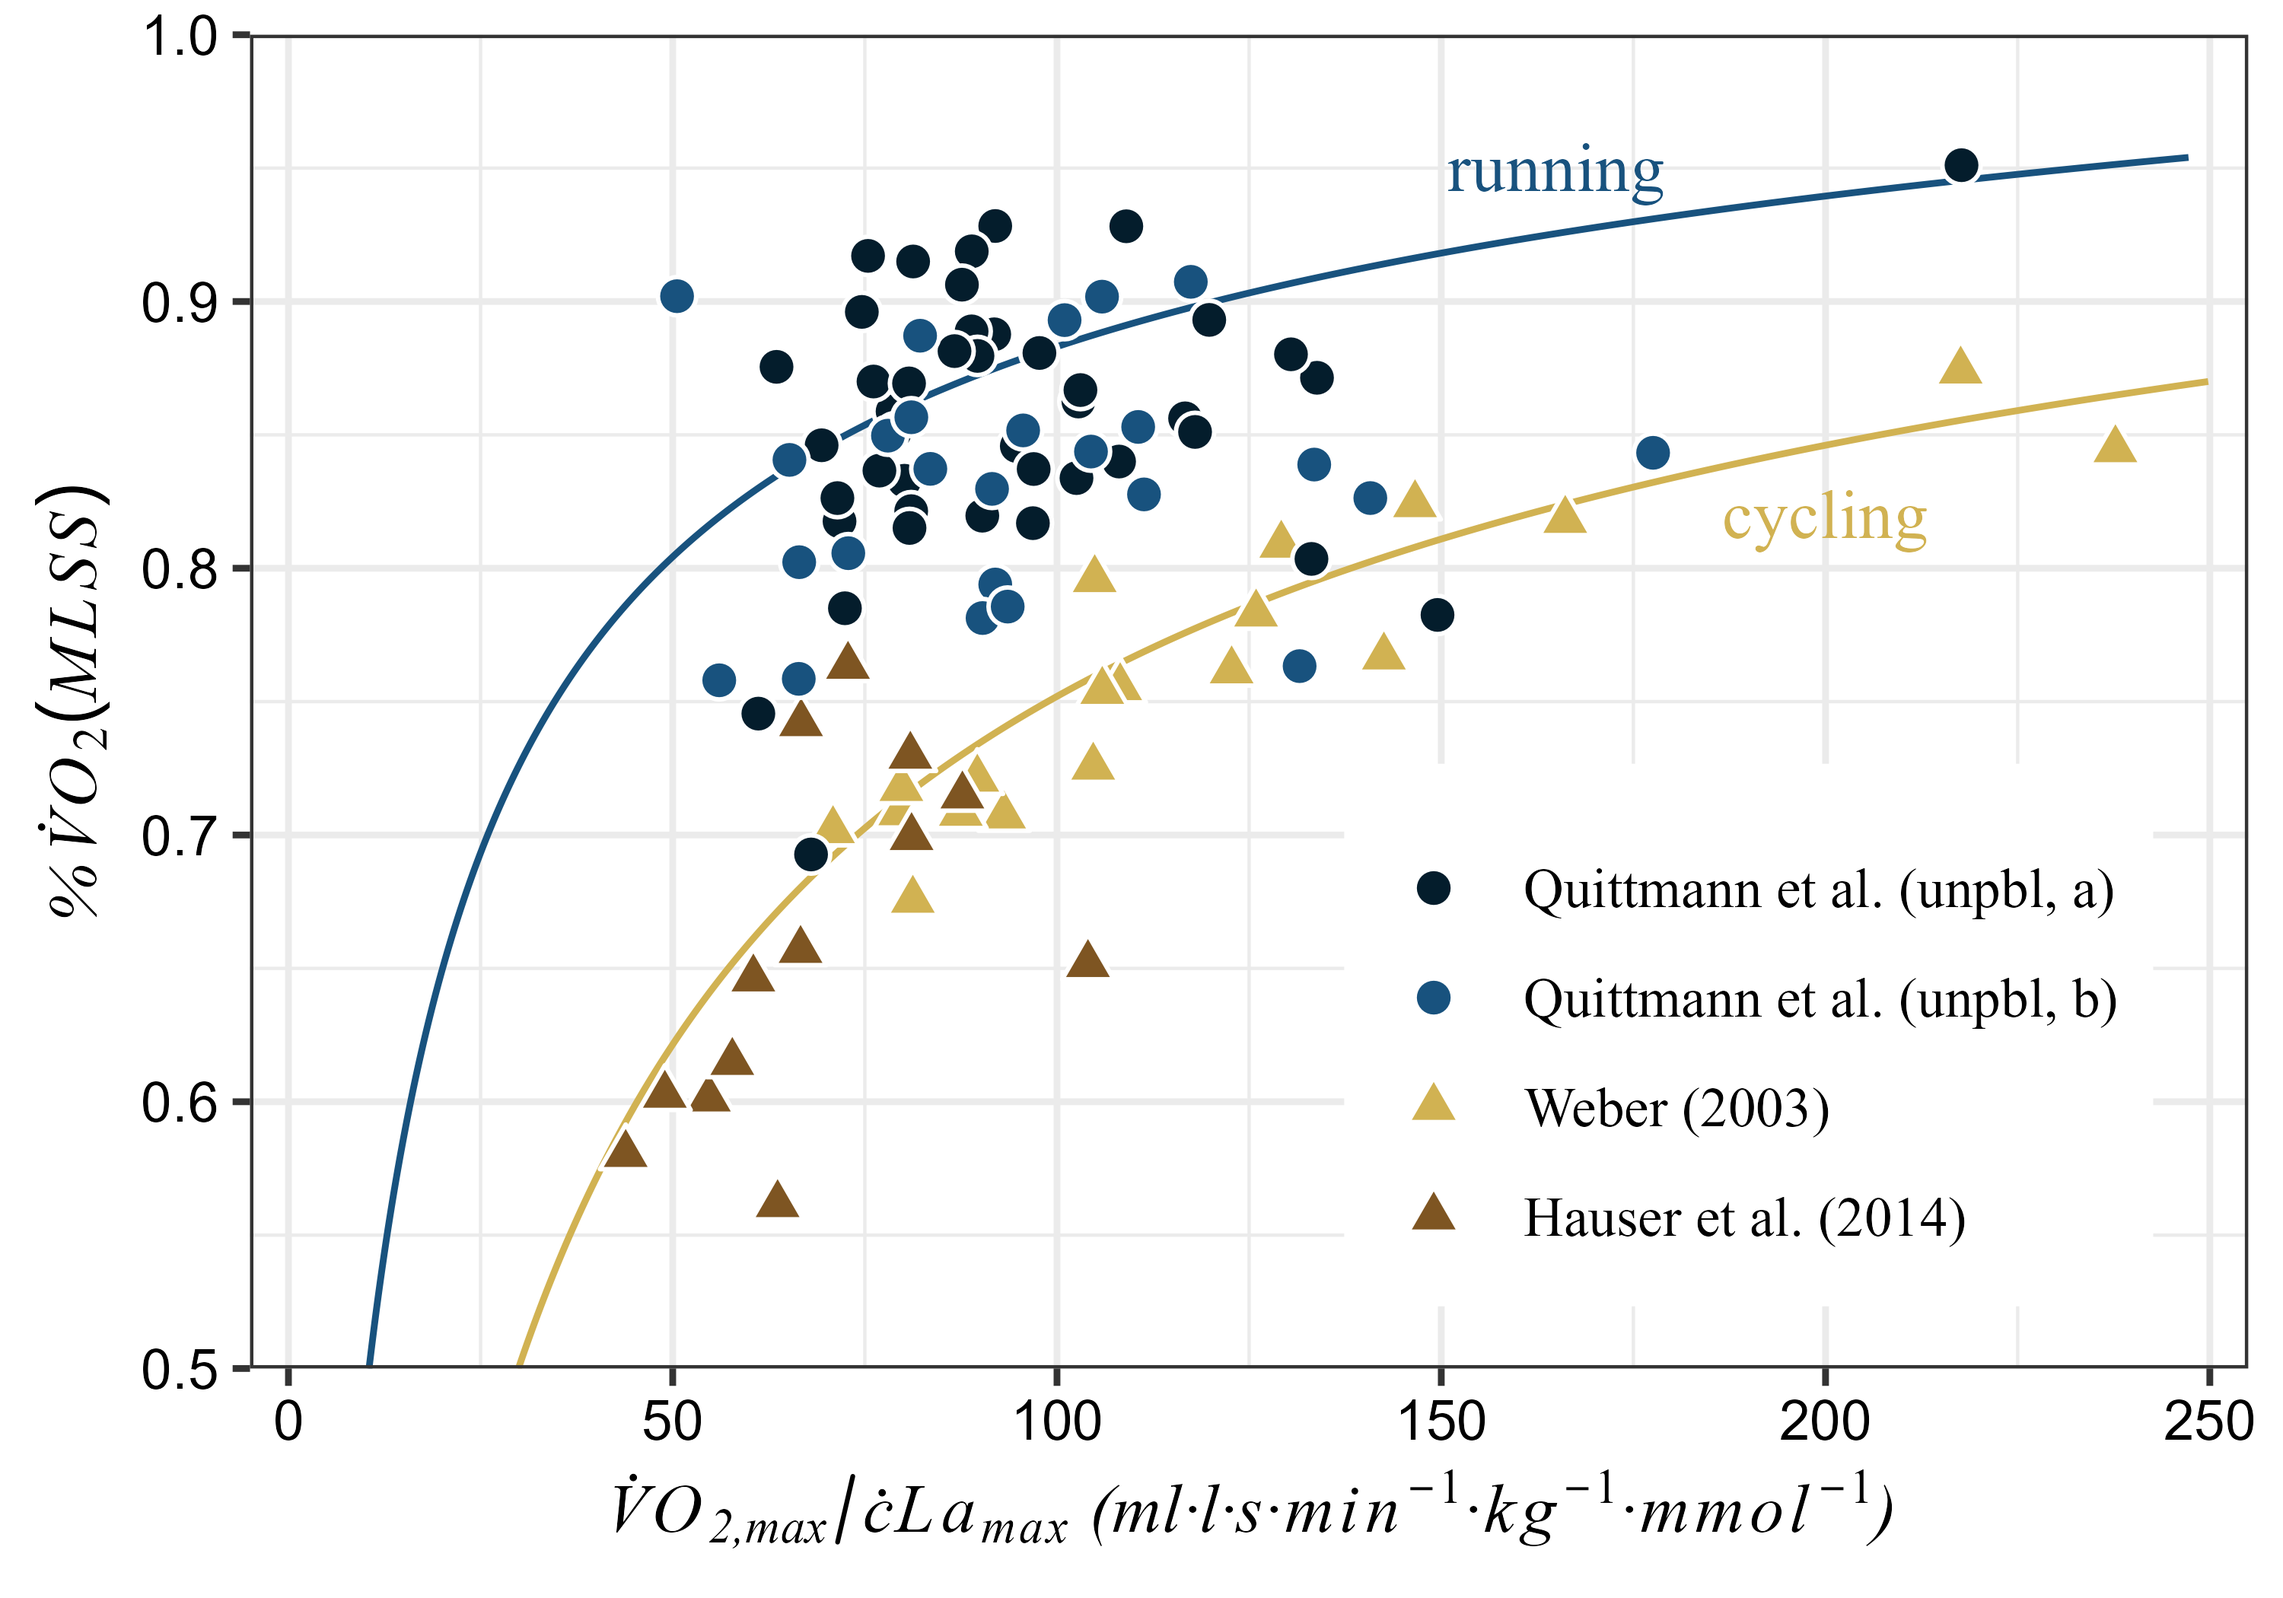
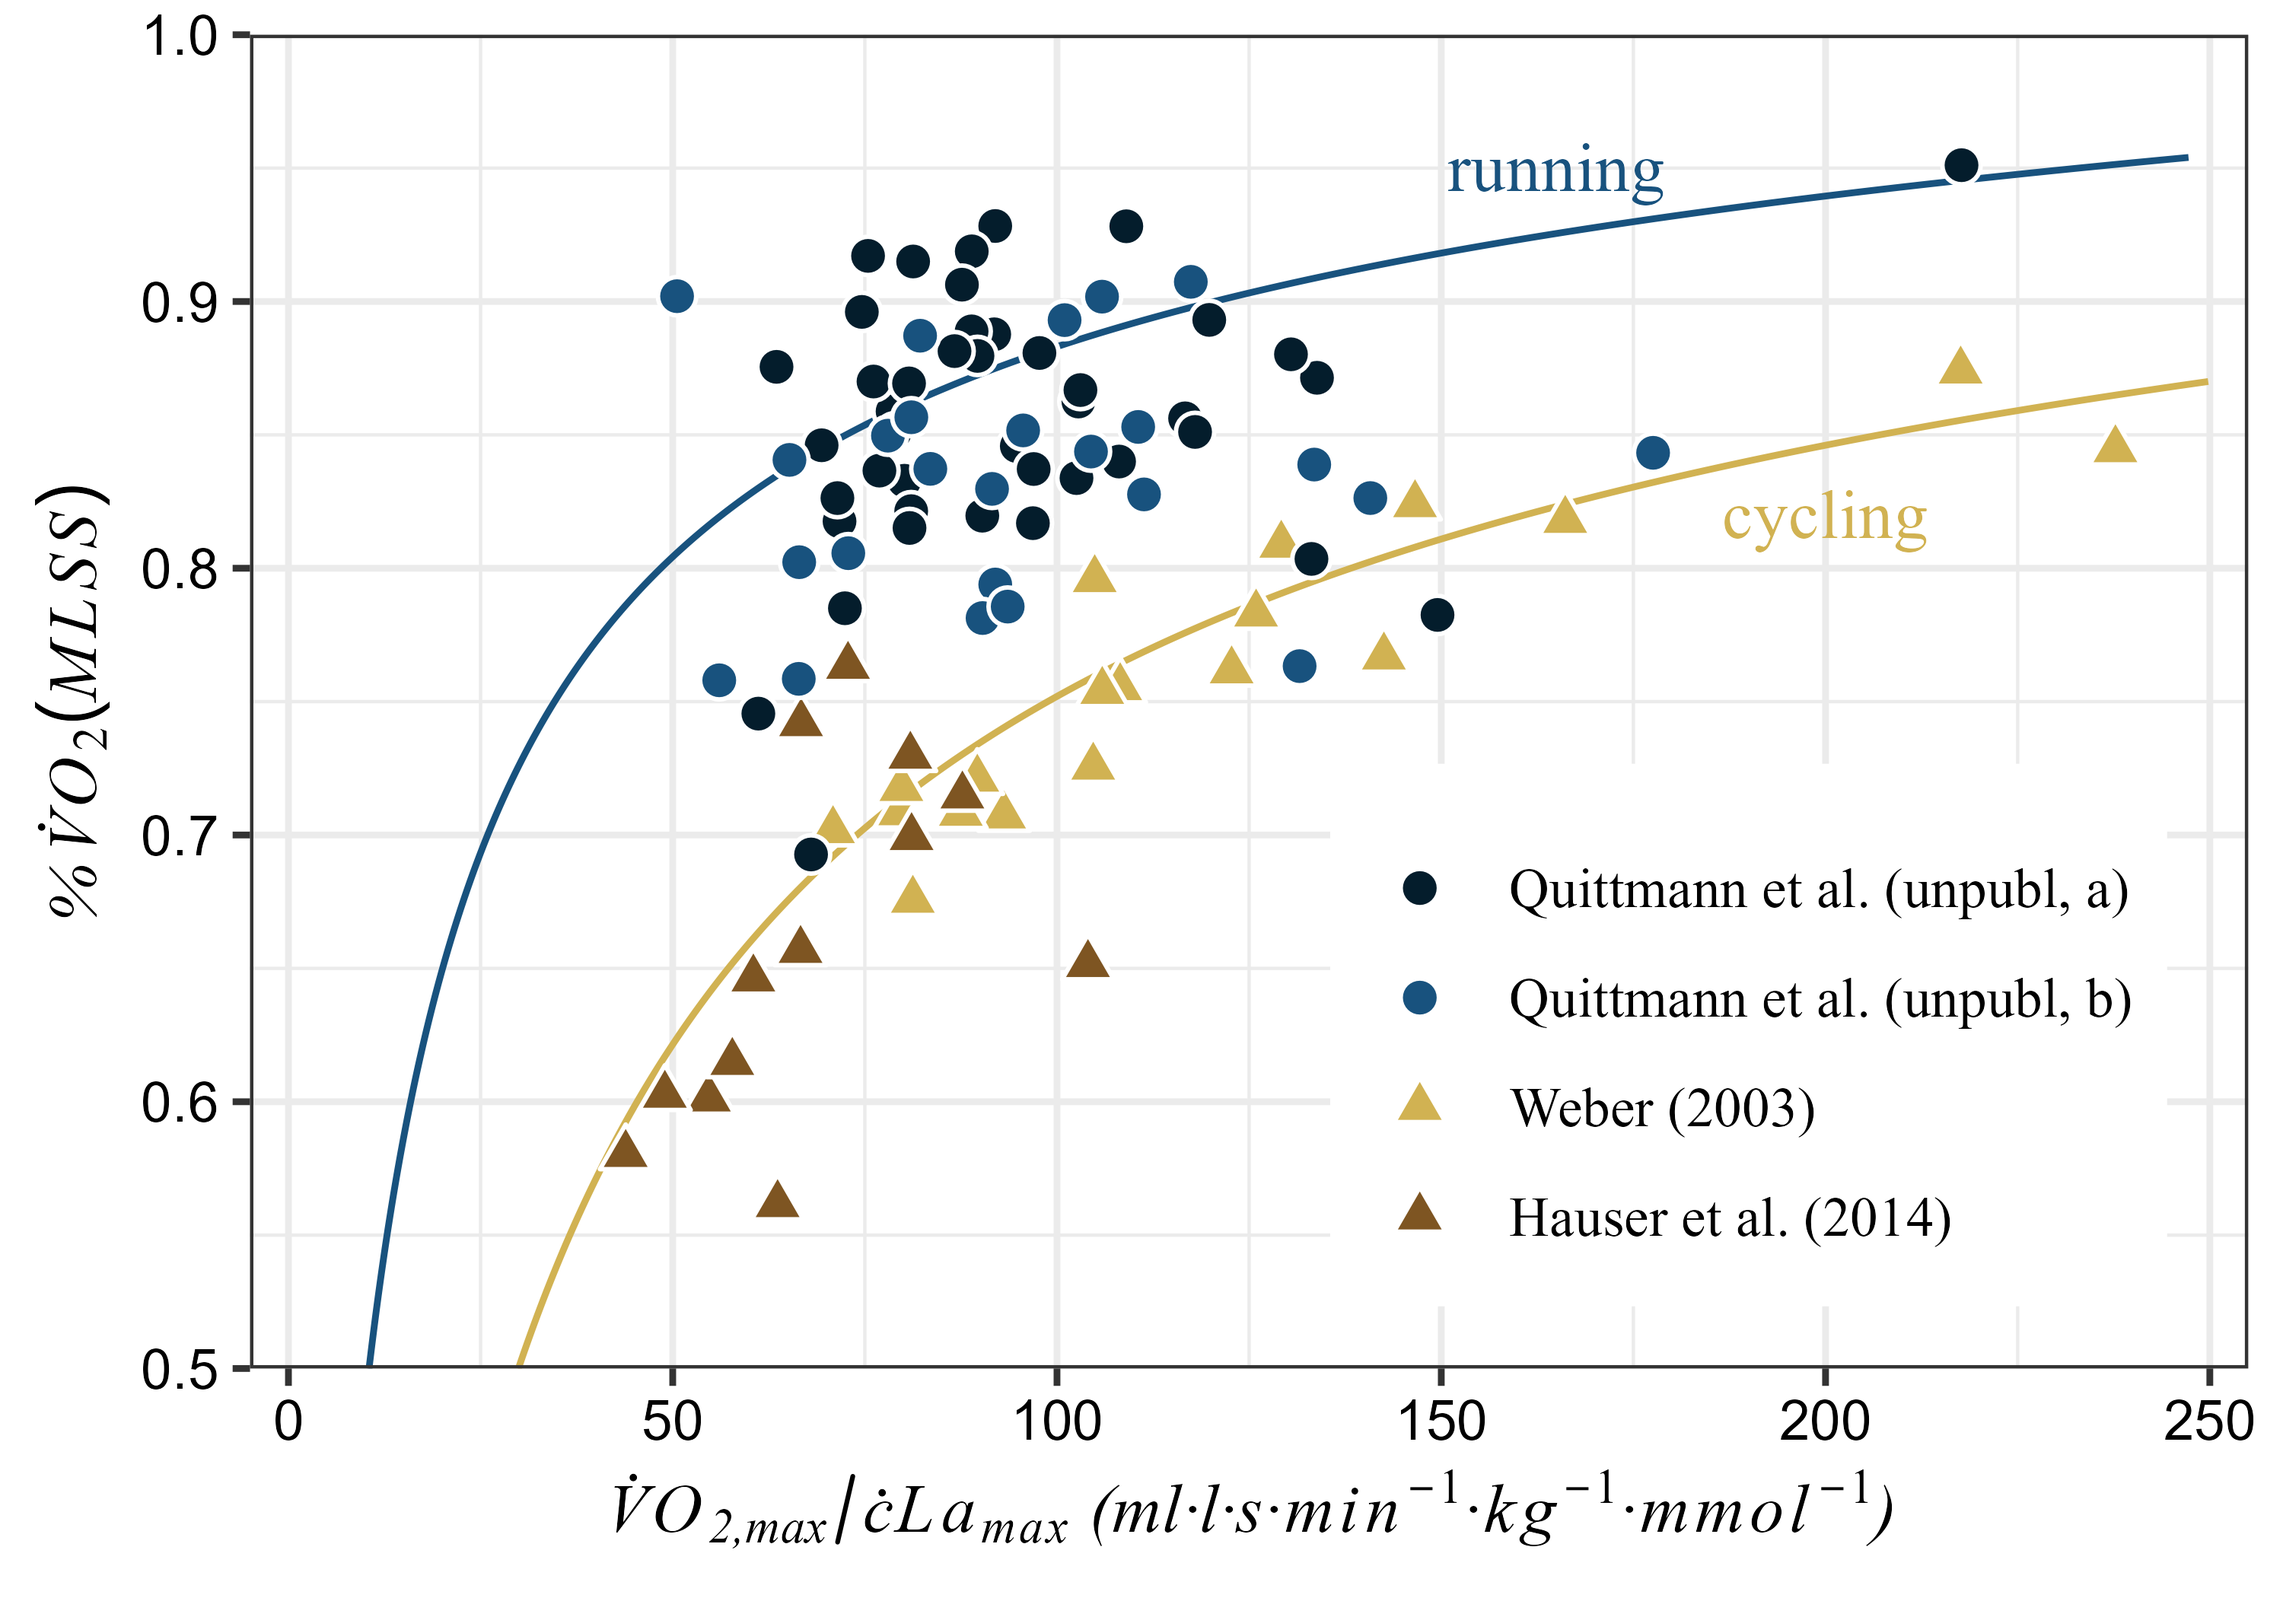
Update legend in Figure 4

diff --git a/scripts/analysis_fig4.md b/scripts/analysis_fig4.md
@@ -77,8 +77,8 @@ fitdata <- data.frame(
 data$source <- factor(data$source,
   levels = c("Quittmann2019","Quittmann2021","Weber2003","Hauser2014"),
   labels = c(
-    "Quittmann et al. (unpbl, a)", 
-    "Quittmann et al. (unpbl, b)", 
+    "Quittmann et al. (unpubl, a)", 
+    "Quittmann et al. (unpubl, b)", 
     "Weber (2003)", 
     "Hauser et al. (2014)"
   )
